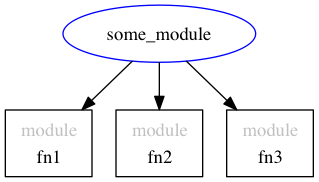
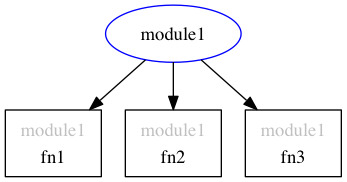
Modified images

diff --git a/simple_examples.py b/simple_examples.py
@@ -91,15 +91,15 @@ def graphFunctionListSameRank(prefix):
     
     digraph = DiGraph({'format':'png'})
 
-    node = Node({'label':'some_module', 'color': 'blue'})
+    node = Node({'label':'module1', 'color': 'blue'})
 
-    node.setNodeAttr('some_module', 'rank', 'same')
+    node.setNodeAttr('module1', 'rank', 'same')
 
     node.append(
         [
-            {'label': 'module:fn1'},
-            {'label': 'module:fn2'},
-            {'label': 'module:fn3'},
+            {'label': 'module1:fn1'},
+            {'label': 'module1:fn2'},
+            {'label': 'module1:fn3'},
         ]
     )
     

diff --git a/README.md b/README.md
@@ -66,3 +66,21 @@ digraph.append(node)
 produces this diagram:
 
 ![alt tag](https://github.com/erikleitch/riak_graphviz/blob/master/img/function_list.png)
+
+where the rank of the nodes indicates the order in which the functions
+are called (assumed to be represented by the order of the function in
+the list).  Setting the ```rank``` attribute to ```same``` for any
+node changes this behavior to put every list element at the same rank.
+Thus the following code
+
+```python
+digraph = DiGraph({'format':'png'})
+node = Node({'label':'module1', 'color': 'red'})
+node.append([{'label': 'module:fn1'}, {'label': 'module:fn2'}, {'label': 'module:fn3'}])
+node.setNodeAttr('module1', 'rank', 'same')
+digraph.append(node)
+```
+
+produces this diagram:
+
+![alt tag](https://github.com/erikleitch/riak_graphviz/blob/master/img/function_list_same_rank.png)
